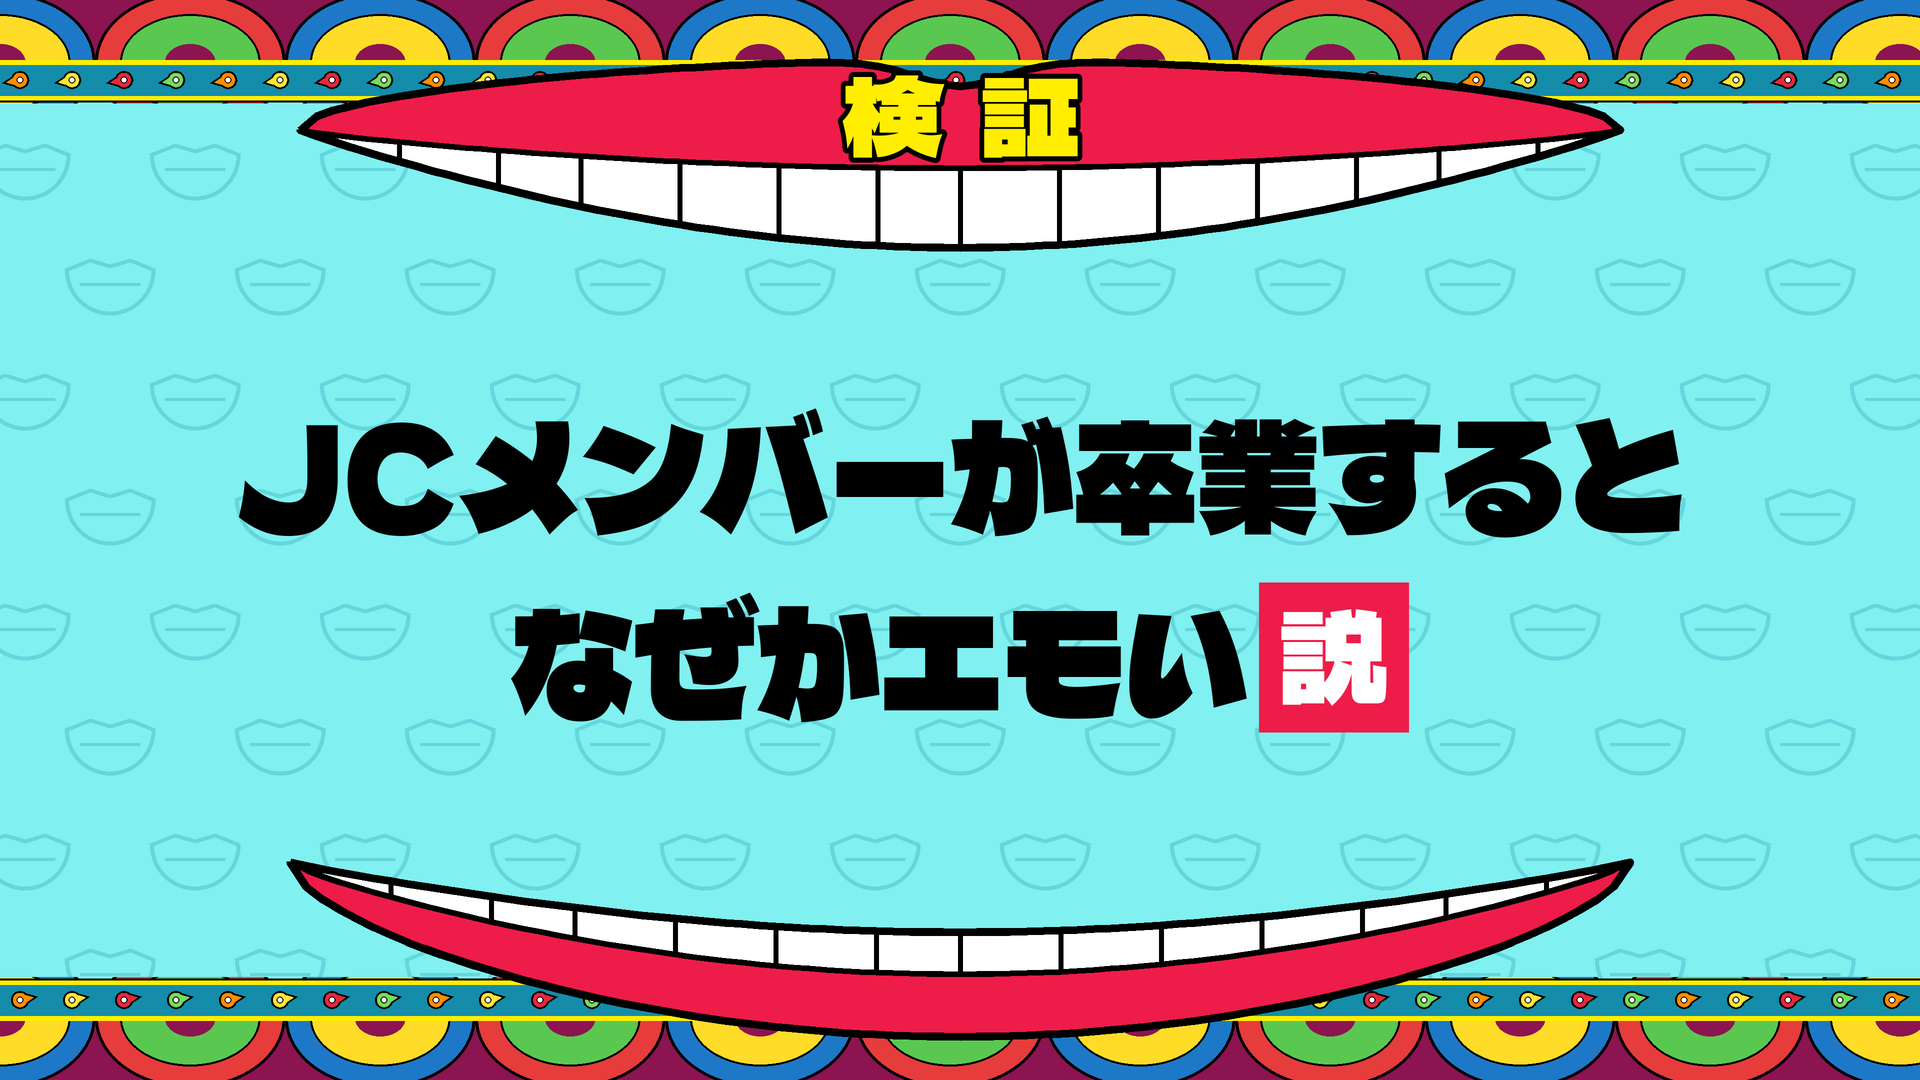
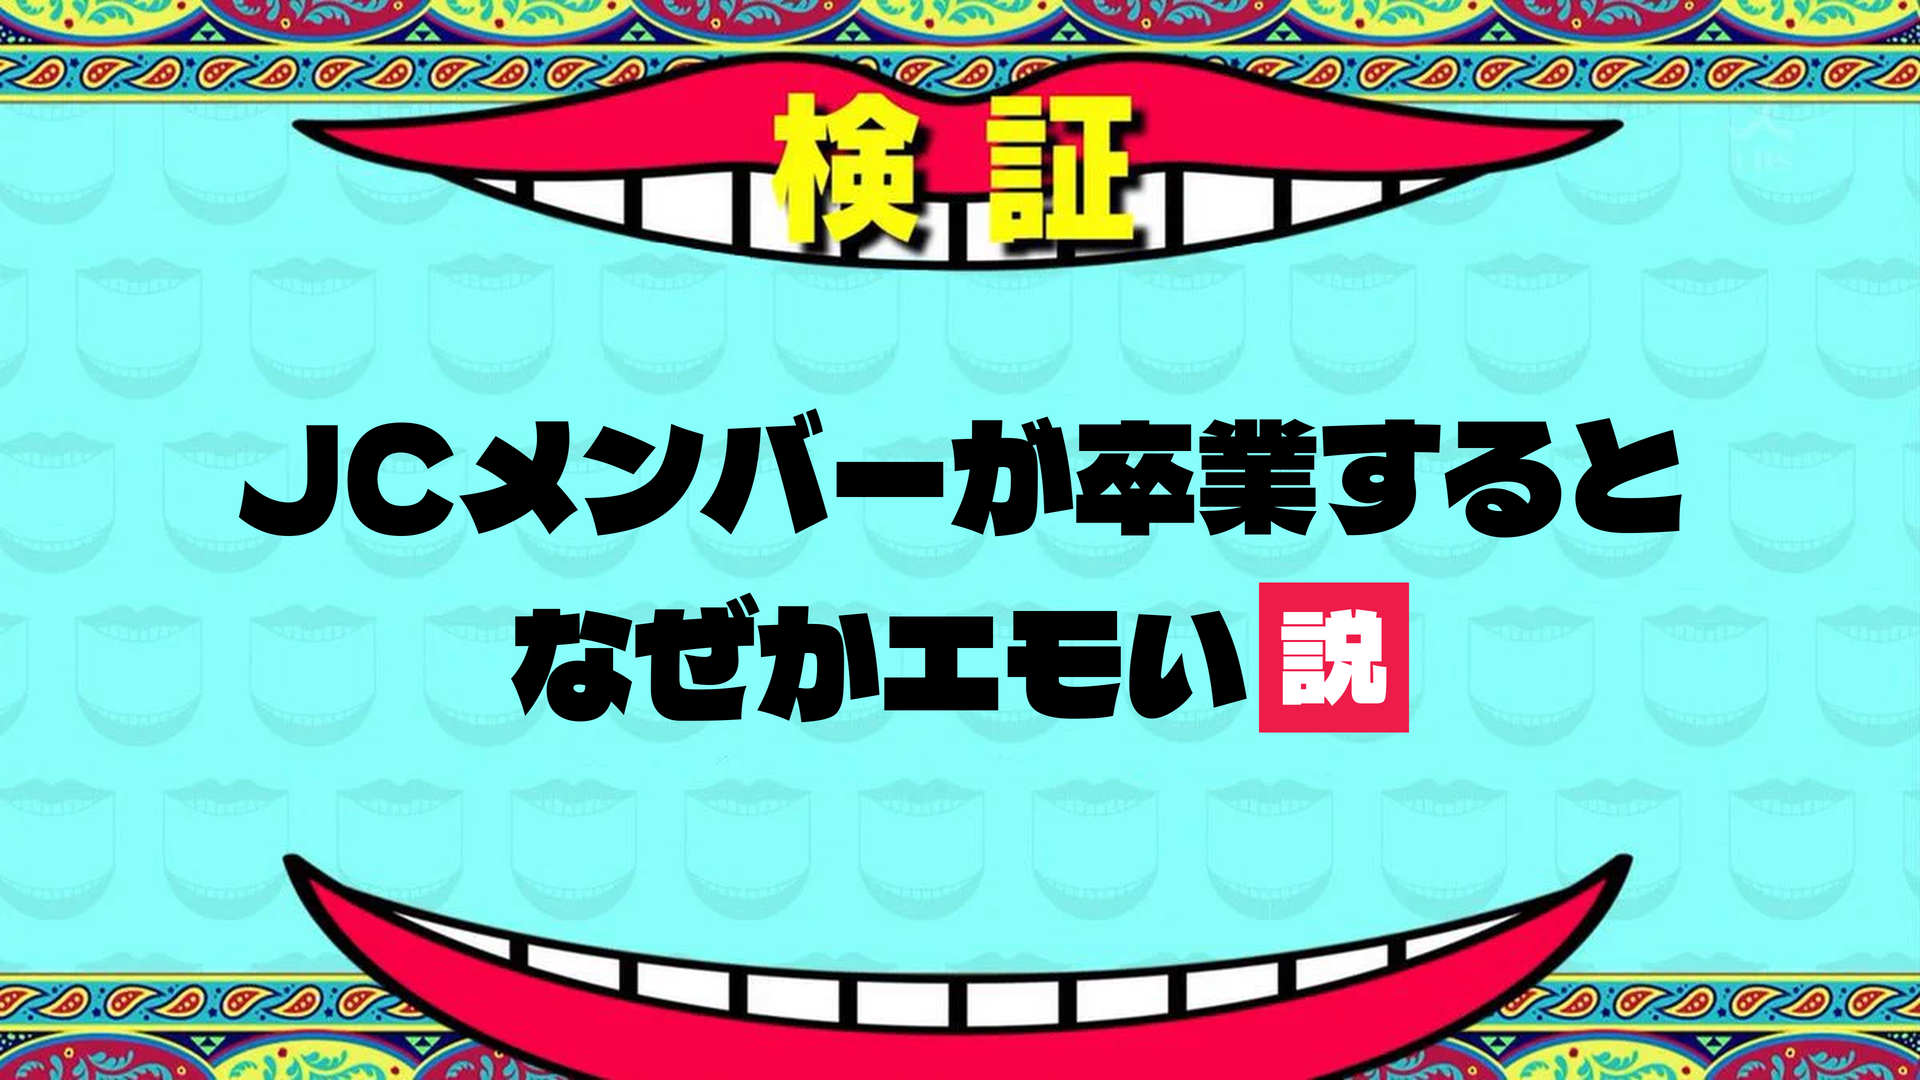
説タイトル画像を、提供された背景画像の上に文字を書く形に変更
背景画像（suiyobi/input/bg_kensho.webp）を使えるようにし、
ロマン雪のフォントファイルを suiyobi/fonts/ に置けば自動で使うようにした。

Claude-Session: https://claude.ai/code/session_01GTLSGHKAiwavTna1RGLYNu

diff --git a/suiyobi/make_setsu_title.py b/suiyobi/make_setsu_title.py
@@ -18,8 +18,19 @@ W, H = 1920, 1080
 S = 2                # 2倍の大きさで描いてから縮める（線のギザギザを消すため）
 
 BASE = os.path.dirname(os.path.abspath(__file__))
-FONT = os.path.join(BASE, "fonts", "DelaGothicOne-Regular.ttf")
+# 背景画像。None にすると、背景・唇・もようをプログラムで描く
+BACKGROUND = os.path.join(BASE, "input", "bg_kensho.webp")
 OUTPUT = os.path.join(BASE, "..", "output", "JC卒業なぜかエモい説.png")
+
+# フォント：suiyobi/fonts/ に「ロマン雪」(Roman Yuki) のファイルを置けばそれを使う。
+# なければ、形の近い無料フォント Dela Gothic One を横に縮めて代わりに使う
+_user_fonts = [f for f in sorted(os.listdir(os.path.join(BASE, "fonts")))
+               if ("ロマン" in f or "roman" in f.lower())
+               and f.lower().endswith((".ttf", ".otf", ".ttc"))]
+if _user_fonts:
+    FONT, SQUEEZE = os.path.join(BASE, "fonts", _user_fonts[0]), 1.0
+else:
+    FONT, SQUEEZE = os.path.join(BASE, "fonts", "DelaGothicOne-Regular.ttf"), 0.82
 
 # 色
 CYAN = (128, 240, 240)
@@ -148,7 +159,7 @@ def draw_bottom_mouth(d):
 # ---------------------------------------------------------------
 # 文字
 # ---------------------------------------------------------------
-def text_image(text, size, fill, stroke=0, squeeze=0.82, spacing=0):
+def text_image(text, size, fill, stroke=0, squeeze=None, spacing=0):
     """文字を画像にして、横幅を少し縮める（番組のフォントは少し縦長なので）"""
     font = ImageFont.truetype(FONT, size * S)
     chars = []
@@ -165,6 +176,8 @@ def text_image(text, size, fill, stroke=0, squeeze=0.82, spacing=0):
                stroke_width=stroke * S, stroke_fill=BLACK)
         x += w + spacing * S
     img = img.crop(img.getbbox())
+    if squeeze is None:
+        squeeze = SQUEEZE
     return img.resize((int(img.width * squeeze), img.height), Image.LANCZOS)
 
 
@@ -176,11 +189,12 @@ def setsu_box(size):
     return box
 
 
-def draw_texts(canvas):
+def draw_texts(canvas, with_label):
     size = 150
-    # 黄色い「検証」（上の唇の中）
-    label = text_image(LABEL, 105, YELLOW, stroke=5, squeeze=0.95, spacing=40)
-    canvas.alpha_composite(label, (W * S // 2 - label.width // 2, 70 * S))
+    # 黄色い「検証」（上の唇の中）。背景画像にもう入っているときは書かない
+    if with_label:
+        label = text_image(LABEL, 105, YELLOW, stroke=5, squeeze=0.95, spacing=40)
+        canvas.alpha_composite(label, (W * S // 2 - label.width // 2, 70 * S))
 
     # メインの2行
     pieces = []
@@ -206,14 +220,18 @@ def draw_texts(canvas):
 
 
 if __name__ == "__main__":
-    canvas = Image.new("RGBA", (W * S, H * S), CYAN + (255,))
-    d = ImageDraw.Draw(canvas)
-    draw_bg_pattern(d)
-    draw_border(canvas, top=True)
-    draw_border(canvas, top=False)
-    draw_top_mouth(d)
-    draw_bottom_mouth(d)
-    draw_texts(canvas)
+    if BACKGROUND:
+        canvas = Image.open(BACKGROUND).convert("RGBA").resize((W * S, H * S), Image.LANCZOS)
+    else:
+        canvas = Image.new("RGBA", (W * S, H * S), CYAN + (255,))
+        d = ImageDraw.Draw(canvas)
+        draw_bg_pattern(d)
+        draw_border(canvas, top=True)
+        draw_border(canvas, top=False)
+        draw_top_mouth(d)
+        draw_bottom_mouth(d)
+    draw_texts(canvas, with_label=not BACKGROUND)
+    print("フォント:", os.path.basename(FONT))
     out = canvas.resize((W, H), Image.LANCZOS).convert("RGB")
     out.save(os.path.abspath(OUTPUT))
     print("完成:", os.path.abspath(OUTPUT))
